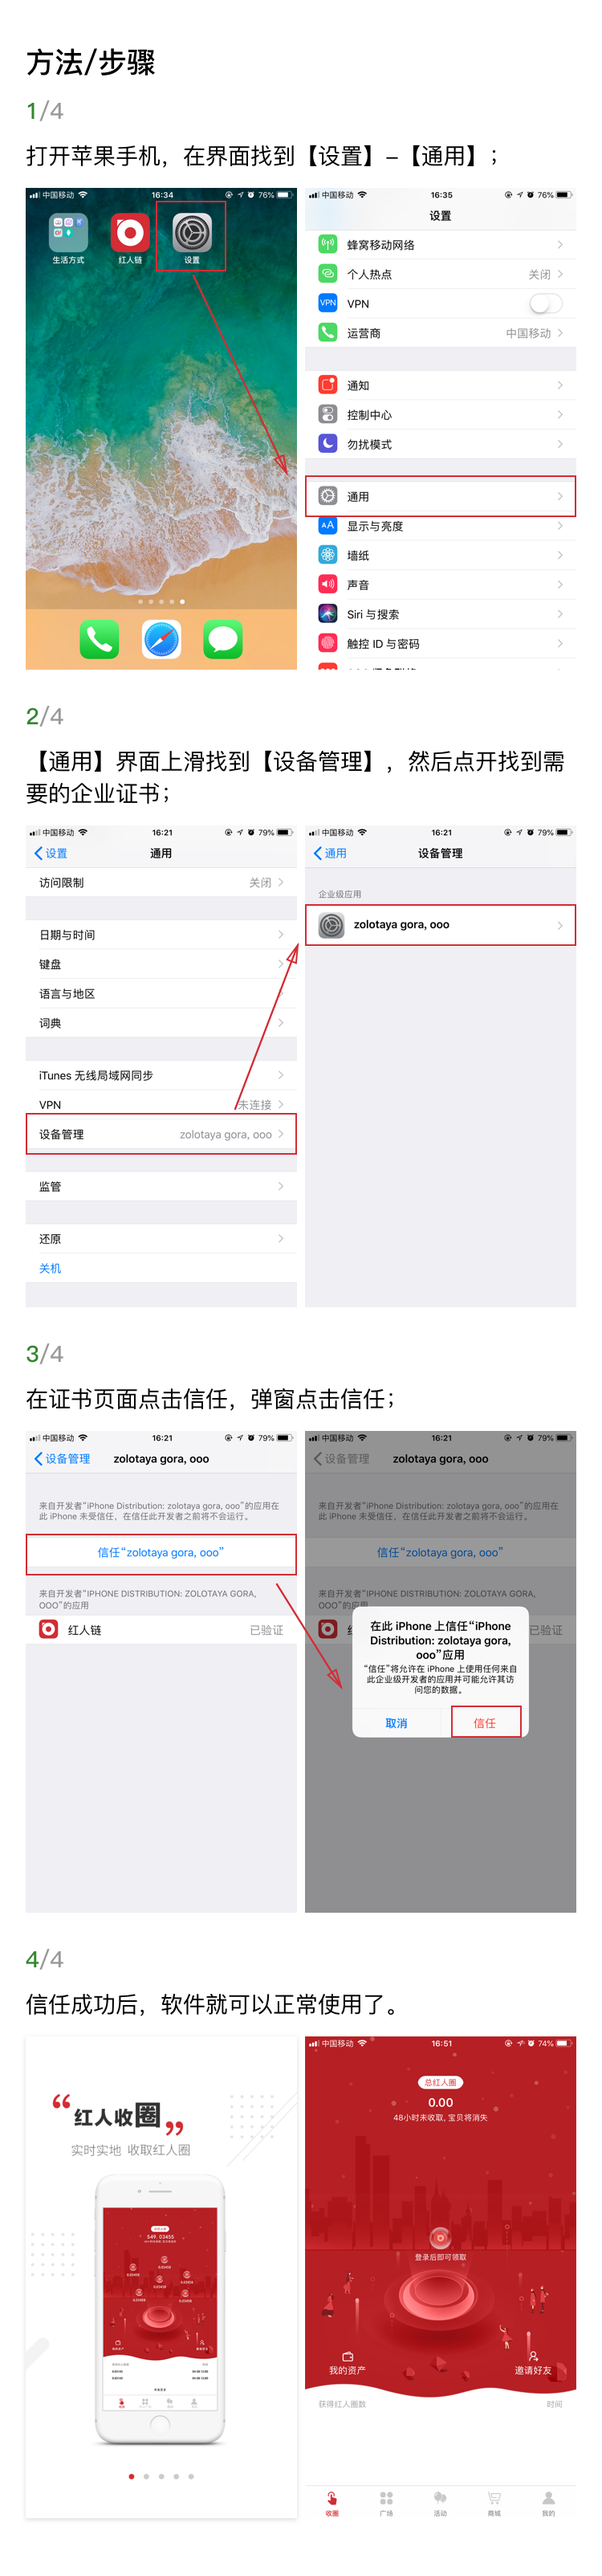
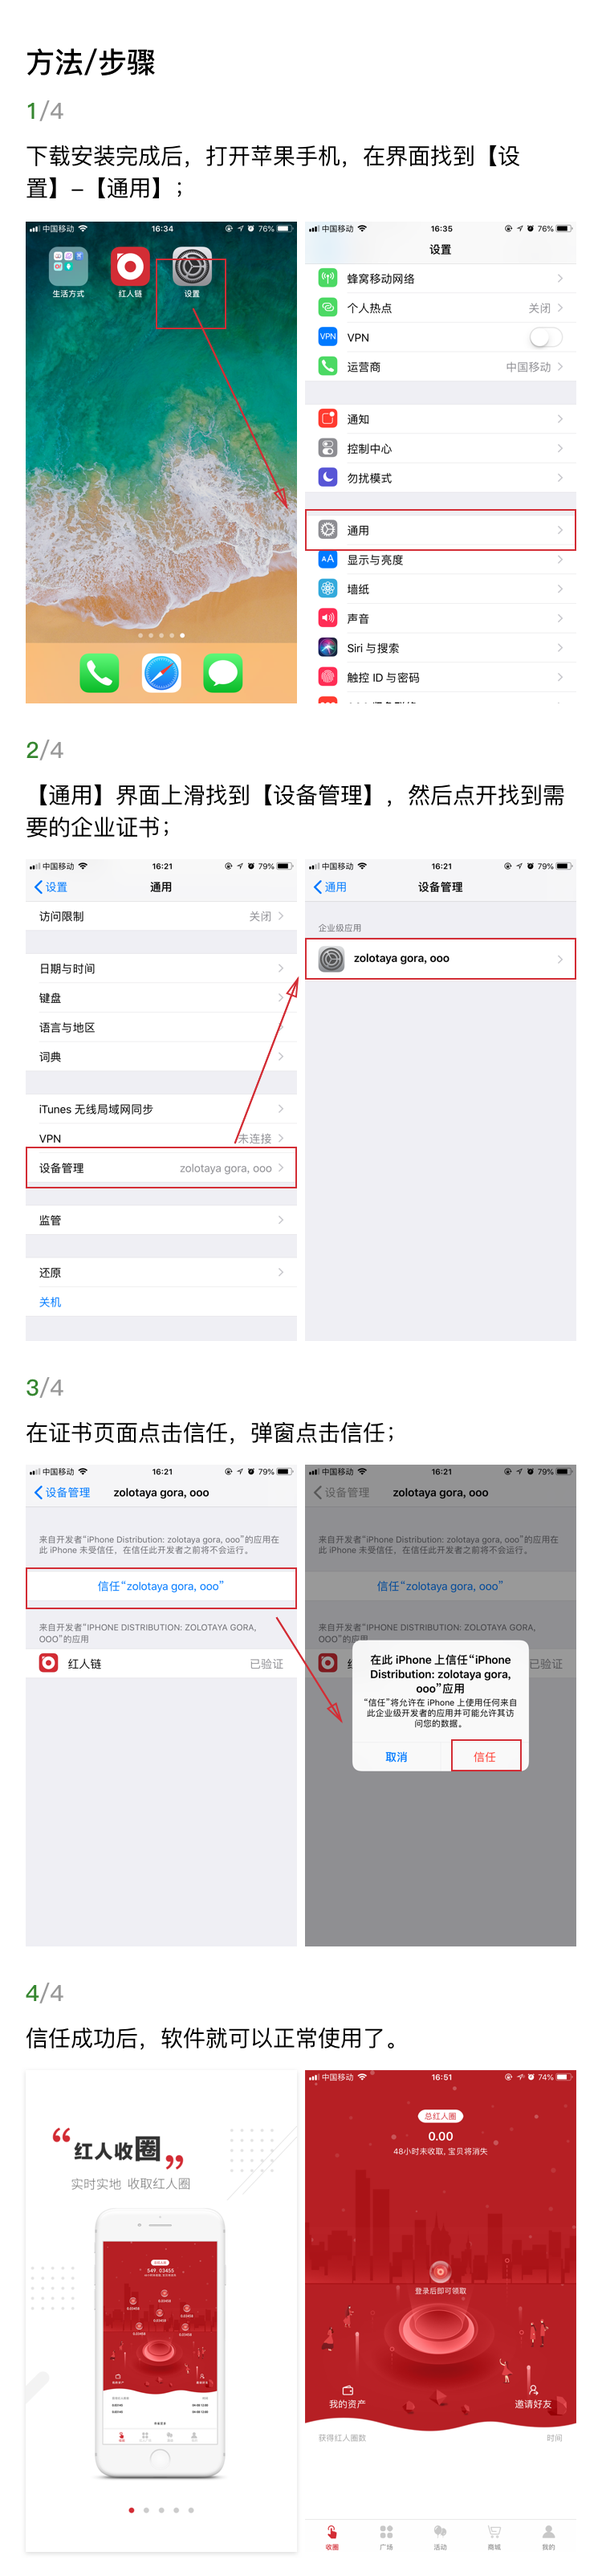
订单核销去除传递参数order_id，下载页面优化

diff --git a/public/iosTip.html b/public/iosTip.html
@@ -9,11 +9,58 @@
 	<title>红人链</title>
 	<link rel="stylesheet" type="text/css" href="../css/base.css">
 	<style>
-		html,body{margin:0;padding:0;}
+		html,body{margin:0 auto;padding:0;}
+		.ios-tip-page{padding-bottom: 1.16rem;}
 		img{display: block;width: 100%;}
+		.download-btn-wrap{position: fixed;bottom: 0;left:0;width: 100%;height: 1.16rem;}
+		.download-btn{margin:0 auto;width: 100%;max-width:750px;height: 1.16rem;
+			background: url("../images/download_btn_bg.png") center no-repeat;
+			background-size: 100% 100%;
+		}
+		/*弹窗*/
+		.modal-box{display: none;position:fixed;width:100%;height:100%;top:0px;background:rgba(0,0,0,0.6);overflow: hidden;}
+		.wxTip{position: absolute;top:0.2rem;right:0.6rem;width: 5.8rem;}
+		.ios-tip{display: none;}
 	</style>
 </head>
 <body>
-	<img src="../images/iosTip.png" alt="ios安装教程">
+	<div class="ios-tip-page">
+		<img src="../images/iosTip.png" alt="ios安装教程">
+	</div>
+	<div class="download-btn-wrap" onclick="fnDownload()">
+		<div class="download-btn"></div>
+	</div>
+	<div class="modal-box">
+		<img class="wxTip ios-tip" src="../images/ios.png" alt="">
+	</div>
 </body>
+	<script type="text/javascript" src="../js/jquery-2.1.4.min.js"></script>
+	<script>
+		function isWeiXin(){//判断微信
+		    var ua = window.navigator.userAgent.toLowerCase();
+		    if(ua.match(/MicroMessenger/i) == 'micromessenger'){//微信中打开
+		        return true;
+		    }else{
+	       		return false;
+	        }    
+		}
+		function fnDownload(){
+			if(isWeiXin()){
+				if (navigator.userAgent.match(/(iPhone|iPod|iPad);?/i)) {
+		            $('.modal-box').css({'display':'block'});
+		            $('.ios-tip').css({'display':'block'});
+		        }
+		        else if (navigator.userAgent.match(/android/i)) {
+		        	window.location.href="./androidTip.html"
+		        }
+			}else{
+				if (navigator.userAgent.match(/(iPhone|iPod|iPad);?/i)) {
+				    window.location.href = "itms-services:///?action=download-manifest&url=https://api.hongrenlian.cn/apps/redtoken.plist";//ios下载地址
+		        }else if (navigator.userAgent.match(/android/i)) {
+		            window.location.href="./androidTip.html"
+		        }
+			}
+	    }
+
+	</script>
 </html>

diff --git a/public/download.html b/public/download.html
@@ -24,9 +24,10 @@
 			<div class="app-desc">
 				<p>紅人链是基于区块链技术构建的粉丝经济流量转化平台，独有的投票，众筹，商城，社交等线上版块将以红人粉丝经济流量为基础，打造全球粉丝经济生态圈，独有的区块链技术构建的社群流量模型有效的融合社交电商和社交游戏，打造全新的区块链B2C流量平台。</p>
 			</div>
-			<a class="tip-a" href="./iosTip.html">IOS安装教程</a>
+			<!-- <a class="tip-a" href="./iosTip.html">IOS安装教程</a> -->
 			<div class="download-btn" onclick="fnDownload()">客户端下载</div>
 		</div>
+		<a class="ios-download-tip" href="./iosTip.html">IOS安装教程</a>
 	</div>
 	<div class="modal-box">
 		<img class="wxTip ios-tip" src="../images/ios.png" alt="">
@@ -37,7 +38,7 @@
 <script>
 	$(function(){
 		if (navigator.userAgent.match(/(iPhone|iPod|iPad);?/i)) {
-            $('.tip-a').css({'display':'block'});
+            $('.ios-download-tip').css({'display':'block'});
         }
 	})
 	function isWeiXin(){//判断微信

diff --git a/public/css/download.css b/public/css/download.css
@@ -51,15 +51,29 @@ img{
 	background: url("../images/downloadBg.png") center no-repeat;
 	background-size: 100% 100%;
 }
-.tip-a{
+/*.tip-a{
 	display: none;
 	position: absolute;
 	right: 0.5rem;
 	bottom: 0.06rem;
 	line-height: 0.36rem;
 	text-align: right;
-	font-size: 0.24rem;
+	font-size: 0.3rem;
 	color: #ccc;
+}*/
+.ios-download-tip{
+	display: none;
+	position: fixed;
+	top:0.55rem;
+	right: 0;
+	width: 2.14rem;
+	height: 0.58rem;
+	line-height: 0.58rem;
+	font-size: 0.28rem;
+	text-align: center;
+	background: #D32D35;
+	color: #fff;
+	border-radius: 0.58rem 0 0 0.58rem;
 }
 
 /*弹窗*/

diff --git a/app/Http/Controllers/Api/V1/OrderController.php b/app/Http/Controllers/Api/V1/OrderController.php
@@ -121,8 +121,7 @@ class OrderController extends ApiBaseController
         if(!$goods->goods_type){//虚拟商品订单
             if($order['pay_status'] && $order['order_status']){	//支付的订单有核销
                 $writeOffModel = $this->orderWriteOffModel->where(['order_id'=>$order_id])->first();
-                $data['order_writeoff']['id'] = $writeOffModel->id;
-                $data['order_writeoff']['order_serial'] = substr($writeOffModel->order_id,-8);
+                $data['order_writeoff']['order_serial'] = $writeOffModel->order_serial;
                 $data['order_writeoff']['order_code'] = $writeOffModel->order_code;
                 $data['order_writeoff']['qrcode_img'] = $this->base_url.$writeOffModel->qrcode_img;
                 $data['order_writeoff']['is_writeoff'] = $writeOffModel->is_writeoff;
@@ -309,23 +308,23 @@ class OrderController extends ApiBaseController
                 $order_status =  2;
                 $message = "您的订单号{$order->order_id}成功支付红人圈{$order->total_score}，我们已为您发货，请及时确认收货！";
 
+
                 $time = time();
                 $url = "/upload/image/qrcode/".$user->id.'_'.$time.".png";#注意目录可写
-                $qrcode['user_id'] = $user->id;#用户id
-                $qrcode['mobile'] = $user->mobile;#手机号
-                $qrcode['order_id'] = $order->order_id;#订单号
-                $qrcode['order_serial'] = substr($order->order_id,-8);//核销序列号
-                $qrcode['order_code'] = !empty($user->mobile)?substr($user->mobile,-8):substr($time,-8);//核销密码
-                $qrcode['create_time'] = $time;#创建时间
-
-                generateQrcode(200,$qrcode,$url);#生成二维码
-
                 $write_data['order_id'] = $order->order_id;#订单号
-                $write_data['order_code'] = $qrcode['order_code'];//核销密码
+                $write_data['order_code'] = !empty($user->mobile)?substr($user->mobile,-8):substr($order->order_id,-8);//核销密码
                 $write_data['qrcode_img'] = $url;//核销二维码
                 $write_data['is_writeoff'] = 0;//未核销
                 $write_data['create_time'] = $time;#创建时间
-                $this->orderWriteOffModel->insert($write_data);#生成核销
+                $order_serial = $this->orderWriteOffModel->insertGetId($write_data);#生成核销
+
+                $qrcode['user_id'] = $user->id;#用户id
+                $qrcode['mobile'] = $user->mobile;#手机号
+                $qrcode['order_id'] = $order->order_id;#订单号
+                $qrcode['order_serial'] = $order_serial;//核销序列号
+                $qrcode['order_code'] = $write_data['order_code'];//核销密码
+                $qrcode['create_time'] = $time;#创建时间
+                generateQrcode(200,$qrcode,$url);#生成二维码
             }
             MessageModel::addMessage($user->id, "兑换商品红人圈支出", $message);
             $this->orderModel->where(['order_id'=>$order->order_id])->update(['pay_status'=>1,'order_status'=>$order_status,'pay_time'=>time()]);
@@ -416,9 +415,9 @@ class OrderController extends ApiBaseController
 
     //订单核销
     public function writeOff(Request $request){
-        $data = $request->only('user_id','order_id','order_serial','order_code');
+        $data = $request->only('user_id','order_serial','order_code');
 
-        if(empty($data['user_id']) || empty($data['order_id']) || empty($data['order_serial']) || empty($data['order_code']) || (substr($data['order_id'],-8)!= $data['order_serial'])){
+        if(empty($data['user_id']) || empty($data['order_serial']) || empty($data['order_code'])){
             return response()->json(['msg'=>Msg::getMsg(Msg::$err_noParameter),'code'=>Msg::$err_noParameter]);
         }
         $user = $this->usersModel->where(['id'=>$data['user_id'],'is_businesser'=>1,'status'=>1])->first();
@@ -428,7 +427,7 @@ class OrderController extends ApiBaseController
         $res = $this->orderWriteOffModel
             ->join('orders','orders.order_id','orders_writeoff.order_id')
             ->select('orders.total_score','orders_writeoff.*')
-            ->where(['orders_writeoff.order_id'=>$data['order_id'],'order_code'=>$data['order_code']])->first();
+            ->where(['orders_writeoff.order_serial'=>$data['order_serial'],'order_code'=>$data['order_code']])->first();
         if(empty($res)){//核销订单不存在
             return response()->json(['msg'=>Msg::getMsg(Msg::$err_noOrder),'code'=>Msg::$err_noOrder]);
         }
@@ -439,7 +438,7 @@ class OrderController extends ApiBaseController
         $write_data['user_id'] = $data['user_id'];
         $write_data['is_writeoff'] = 1;
         $write_data['update_time'] = time();
-        $result = $this->orderWriteOffModel->where(['id'=>$res->id])->update($write_data);
+        $result = $this->orderWriteOffModel->where(['order_serial'=>$res->order_serial])->update($write_data);
         if($result){
             return response()->json(['msg'=>Msg::getMsg(Msg::$err_none),'code'=>Msg::$err_none,'result'=>['total_score'=>$res->total_score]]);
         }else{
